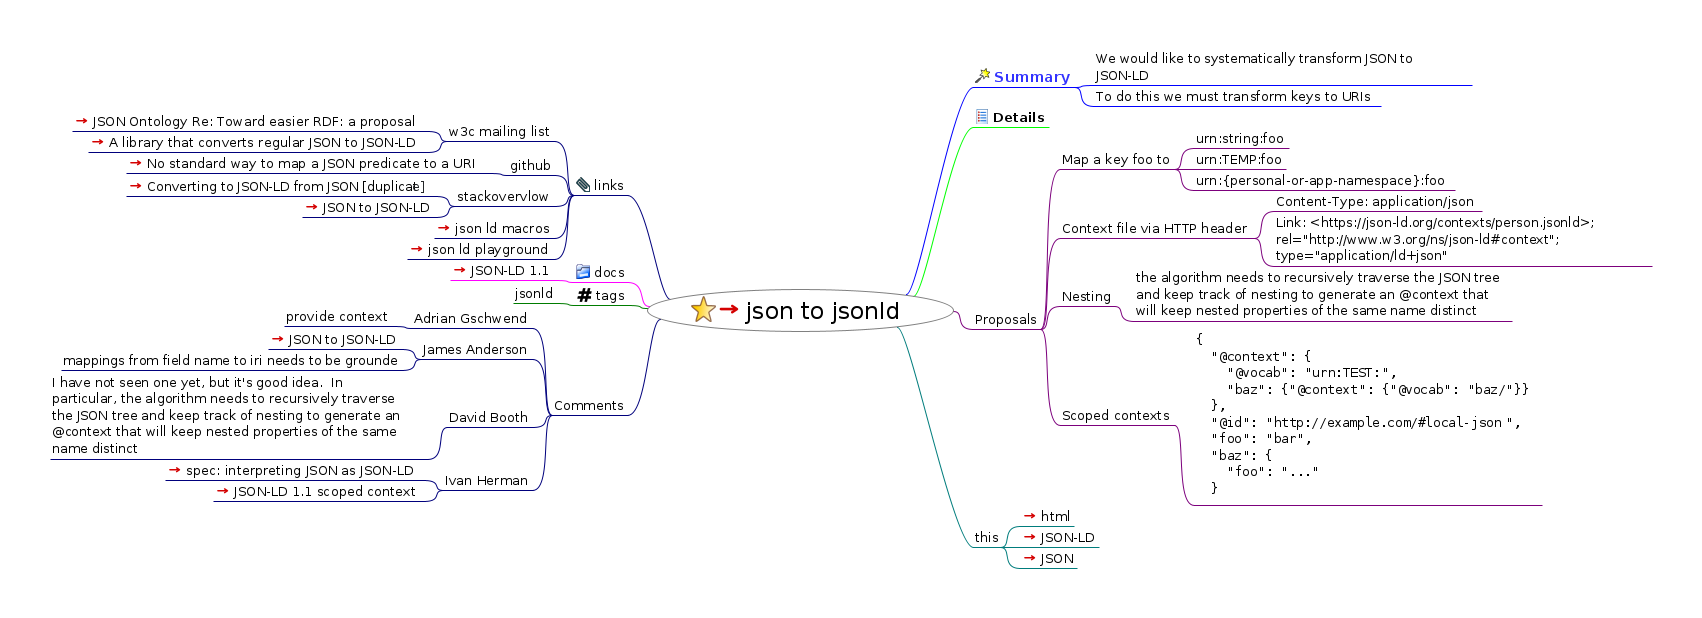
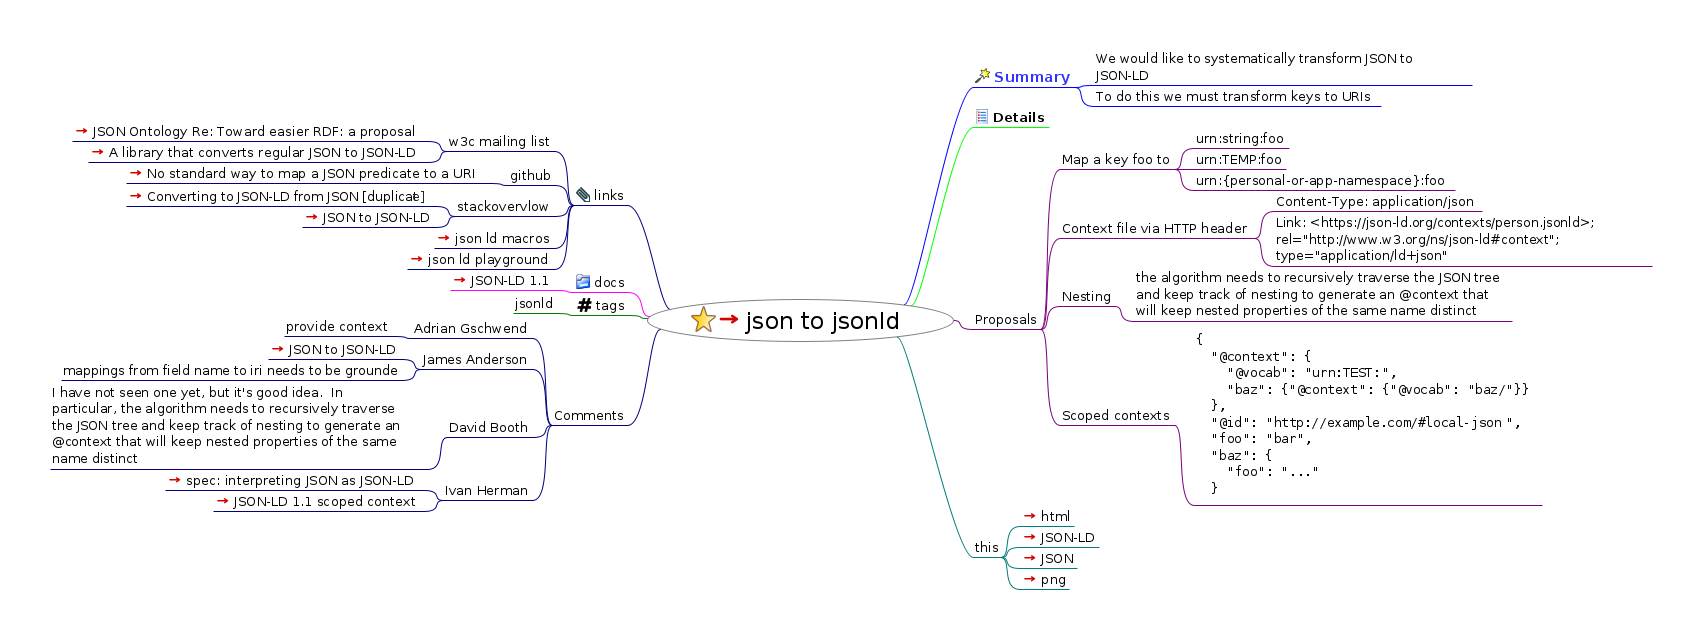
add png

diff --git a/2020/04/12/json-to-jsonld.html b/2020/04/12/json-to-jsonld.html
@@ -1,5 +1,5 @@
 <?xml version="1.0" encoding="UTF-8"?><!DOCTYPE html PUBLIC "-//W3C//DTD XHTML 1.1//EN" "http://www.w3.org/TR/xhtml11/DTD/xhtml11.dtd">
-<html xmlns="http://www.w3.org/1999/xhtml"><meta http-equiv="Content-Type" content="text/html; charset=UTF-8" /><!--This file has been created with freeplane2html.xsl--><head><title>json to jsonld</title><link rel="stylesheet" href="json-to-jsonld.html_files/freeplane2html.css" type="text/css" /><meta name="generator" content="Freeplane-XSL Stylesheet (see: http://freeplane-xsl.dev.slash-me.net/ for details)" /><script type="text/javascript" src="json-to-jsonld.html_files/freeplane2html.js"> 
+<html xmlns="http://www.w3.org/1999/xhtml"><meta http-equiv="Content-Type" content="text/html; charset=UTF-8" /><!--This file has been created with processhtml.sh--><head><title>json to jsonld</title><link rel="stylesheet" href="json-to-jsonld.html_files/freeplane2html.css" type="text/css" /><meta name="generator" content="Freeplane-XSL Stylesheet (see: http://freeplane-xsl.dev.slash-me.net/ for details)" /><script type="text/javascript" src="json-to-jsonld.html_files/freeplane2html.js"> 
 	</script><script type="text/javascript"><!--
           
                function toggle(id)
@@ -23,7 +23,7 @@
                    };
                };
           
-          --></script></head><body><h1>json to jsonld</h1><div style="width:96%;  padding:2%;  margin-bottom:10px;  border: 0px;  text-align:center;  vertical-align:center;"><img src="json-to-jsonld.html_files/image.png" style="margin-bottom:10px; &#9;border: 0px; &#9;text-align:center; &#9;vertical-align:center;" alt="Imagemap" usemap="#fm_imagemap" /></div><map name="fm_imagemap" id="fm_imagemap"><area shape="rect" href="#FMID_1831615648FM" alt="json to jsonld" title="json to jsonld" coords="647,289,954,332" />
+          --></script></head><body><h1>json to jsonld</h1><div style="width:96%;  padding:2%;  margin-bottom:10px;  border: 0px;  text-align:center;  vertical-align:center;"><img src="json-to-jsonld.html_files/image.png" style="margin-bottom:10px; &#9;border: 0px; &#9;text-align:center; &#9;vertical-align:center;" alt="Imagemap" usemap="#fm_imagemap" /></div><map name="fm_imagemap" id="fm_imagemap"><area shape="rect" href="index.html" alt="json to jsonld" title="json to jsonld" coords="647,299,954,342" />
 <area shape="rect" href="#FMID_1226961462FM" alt="Summary" title="Summary" coords="973,68,1075,87" />
 <area shape="rect" href="#FMID_1086973807FM" alt="We would like to systematically transfor ..." title="We would like to systematically transfor ..." coords="1094,50,1472,85" />
 <area shape="rect" href="#FMID_1111058289FM" alt="To do this we must transform keys to URI ..." title="To do this we must transform keys to URI ..." coords="1094,88,1381,106" />
@@ -40,39 +40,40 @@
 <area shape="rect" href="#FMID_1691568259FM" alt="the algorithm needs to recursively trave ..." title="the algorithm needs to recursively trave ..." coords="1134,269,1512,321" />
 <area shape="rect" href="#FMID_639646569FM" alt="Scoped contexts" title="Scoped contexts" coords="1060,407,1175,425" />
 <area shape="rect" href="#FMID_1192561099FM" alt="{ &quot;@context&quot;: { &quot;@vocab&quot;: &quot;urn:TEST:&quot;, &quot; ..." title="{ &quot;@context&quot;: { &quot;@vocab&quot;: &quot;urn:TEST:&quot;, &quot; ..." coords="1194,324,1542,505" />
-<area shape="rect" href="#FMID_1092542481FM" alt="this" title="this" coords="973,529,1001,547" />
-<area shape="rect" href="#FMID_428900558FM" alt="html" title="html" coords="1020,508,1074,526" />
-<area shape="rect" href="#FMID_1787735517FM" alt="JSON-LD" title="JSON-LD" coords="1020,529,1099,547" />
-<area shape="rect" href="#FMID_1736431665FM" alt="JSON" title="JSON" coords="1020,550,1077,568" />
-<area shape="rect" href="#FMID_808607355FM" alt="links" title="links" coords="574,177,628,195" />
-<area shape="rect" href="#FMID_918122248FM" alt="w3c mailing list" title="w3c mailing list" coords="447,123,555,141" />
-<area shape="rect" href="#FMID_1976596821FM" alt="JSON Ontology Re: Toward easier RDF: a p ..." title="JSON Ontology Re: Toward easier RDF: a p ..." coords="72,113,428,131" />
-<area shape="rect" href="#FMID_1449545746FM" alt="A library that converts regular JSON to  ..." title="A library that converts regular JSON to  ..." coords="88,134,428,152" />
-<area shape="rect" href="#FMID_1747052948FM" alt="github" title="github" coords="508,157,555,175" />
-<area shape="rect" href="#FMID_1011609031FM" alt="No standard way to map a JSON predicate  ..." title="No standard way to map a JSON predicate  ..." coords="126,155,489,173" />
-<area shape="rect" href="#FMID_1444305482FM" alt="stackovervlow" title="stackovervlow" coords="455,188,555,206" />
-<area shape="rect" href="#FMID_1392203866FM" alt="Converting to JSON-LD from JSON [duplica ..." title="Converting to JSON-LD from JSON [duplica ..." coords="126,178,436,196" />
-<area shape="rect" href="#FMID_1701504836FM" alt="JSON to JSON-LD" title="JSON to JSON-LD" coords="302,199,436,217" />
-<area shape="rect" href="#FMID_470698109FM" alt="json ld macros" title="json ld macros" coords="434,220,555,238" />
-<area shape="rect" href="#FMID_415558595FM" alt="json ld playground" title="json ld playground" coords="407,241,555,259" />
-<area shape="rect" href="#FMID_1100215200FM" alt="docs" title="docs" coords="574,264,628,282" />
-<area shape="rect" href="#FMID_1264027332FM" alt="JSON-LD 1.1" title="JSON-LD 1.1" coords="450,262,555,280" />
-<area shape="rect" href="#FMID_466759422FM" alt="tags" title="tags" coords="575,287,628,305" />
-<area shape="rect" href="#FMID_1819539538FM" alt="jsonld" title="jsonld" coords="513,285,556,303" />
-<area shape="rect" href="#FMID_1203332323FM" alt="Comments" title="Comments" coords="552,397,628,415" />
-<area shape="rect" href="#FMID_348210779FM" alt="Adrian Gschwend" title="Adrian Gschwend" coords="412,310,533,328" />
-<area shape="rect" href="#FMID_144966324FM" alt="provide context" title="provide context" coords="284,308,393,326" />
-<area shape="rect" href="#FMID_1765687416FM" alt="James Anderson" title="James Anderson" coords="421,341,533,359" />
-<area shape="rect" href="#FMID_766501768FM" alt="JSON to JSON-LD" title="JSON to JSON-LD" coords="268,331,402,349" />
-<area shape="rect" href="#FMID_1778237430FM" alt="mappings from field name to iri needs to ..." title="mappings from field name to iri needs to ..." coords="61,352,402,370" />
-<area shape="rect" href="#FMID_1984802718FM" alt="David Booth" title="David Booth" coords="447,409,533,427" />
-<area shape="rect" href="#FMID_847805870FM" alt="I have not seen one yet, but it's good i ..." title="I have not seen one yet, but it's good i ..." coords="50,373,428,459" />
-<area shape="rect" href="#FMID_1744736052FM" alt="Ivan Herman" title="Ivan Herman" coords="443,472,533,490" />
-<area shape="rect" href="#FMID_1977856301FM" alt="spec: interpreting JSON as JSON-LD" title="spec: interpreting JSON as JSON-LD" coords="165,462,424,480" />
-<area shape="rect" href="#FMID_1496037961FM" alt="JSON-LD 1.1 scoped context" title="JSON-LD 1.1 scoped context" coords="213,483,424,501" />
+<area shape="rect" href="#FMID_1092542481FM" alt="this" title="this" coords="973,539,1001,557" />
+<area shape="rect" href="https://melvincarvalho.com/issues/2020/04/12/json-to-jsonld.html" alt="html" title="html" coords="1020,508,1074,526" />
+<area shape="rect" href="https://melvincarvalho.com/issues/2020/04/12/json-to-jsonld.jsonld" alt="JSON-LD" title="JSON-LD" coords="1020,529,1099,547" />
+<area shape="rect" href="https://melvincarvalho.com/issues/2020/04/12/json-to-jsonld.json" alt="JSON" title="JSON" coords="1020,550,1077,568" />
+<area shape="rect" href="https://melvincarvalho.com/issues/2020/04/12/json-to-jsonld.html_files/image.png" alt="png" title="png" coords="1020,571,1069,589" />
+<area shape="rect" href="#FMID_808607355FM" alt="links" title="links" coords="574,187,628,205" />
+<area shape="rect" href="#FMID_918122248FM" alt="w3c mailing list" title="w3c mailing list" coords="447,133,555,151" />
+<area shape="rect" href="https://lists.w3.org/Archives/Public/semantic-web/2018Nov/0171.html" alt="JSON Ontology Re: Toward easier RDF: a p ..." title="JSON Ontology Re: Toward easier RDF: a p ..." coords="72,123,428,141" />
+<area shape="rect" href="https://lists.w3.org/Archives/Public/public-linked-json/2020Apr/0003.html" alt="A library that converts regular JSON to  ..." title="A library that converts regular JSON to  ..." coords="88,144,428,162" />
+<area shape="rect" href="#FMID_1747052948FM" alt="github" title="github" coords="508,167,555,185" />
+<area shape="rect" href="https://github.com/w3c/EasierRDF/issues/29" alt="No standard way to map a JSON predicate  ..." title="No standard way to map a JSON predicate  ..." coords="126,165,489,183" />
+<area shape="rect" href="#FMID_1444305482FM" alt="stackovervlow" title="stackovervlow" coords="455,198,555,216" />
+<area shape="rect" href="https://stackoverflow.com/questions/28077742/converting-to-json-ld-from-json" alt="Converting to JSON-LD from JSON [duplica ..." title="Converting to JSON-LD from JSON [duplica ..." coords="126,188,436,206" />
+<area shape="rect" href="https://stackoverflow.com/questions/27564369/json-to-json-ld" alt="JSON to JSON-LD" title="JSON to JSON-LD" coords="302,209,436,227" />
+<area shape="rect" href="https://github.com/antoniogarrote/json-ld-macros" alt="json ld macros" title="json ld macros" coords="434,230,555,248" />
+<area shape="rect" href="http://json-ld.org/playground/" alt="json ld playground" title="json ld playground" coords="407,251,555,269" />
+<area shape="rect" href="#FMID_1100215200FM" alt="docs" title="docs" coords="574,274,628,292" />
+<area shape="rect" href="https://json-ld.org/spec/latest/json-ld/" alt="JSON-LD 1.1" title="JSON-LD 1.1" coords="450,272,555,290" />
+<area shape="rect" href="#FMID_466759422FM" alt="tags" title="tags" coords="575,297,628,315" />
+<area shape="rect" href="#FMID_1819539538FM" alt="jsonld" title="jsonld" coords="513,295,556,313" />
+<area shape="rect" href="#FMID_1203332323FM" alt="Comments" title="Comments" coords="552,407,628,425" />
+<area shape="rect" href="#FMID_348210779FM" alt="Adrian Gschwend" title="Adrian Gschwend" coords="412,320,533,338" />
+<area shape="rect" href="#FMID_144966324FM" alt="provide context" title="provide context" coords="284,318,393,336" />
+<area shape="rect" href="#FMID_1765687416FM" alt="James Anderson" title="James Anderson" coords="421,351,533,369" />
+<area shape="rect" href="https://stackoverflow.com/questions/27564369/json-to-json-ld" alt="JSON to JSON-LD" title="JSON to JSON-LD" coords="268,341,402,359" />
+<area shape="rect" href="#FMID_1778237430FM" alt="mappings from field name to iri needs to ..." title="mappings from field name to iri needs to ..." coords="61,362,402,380" />
+<area shape="rect" href="#FMID_1984802718FM" alt="David Booth" title="David Booth" coords="447,419,533,437" />
+<area shape="rect" href="#FMID_847805870FM" alt="I have not seen one yet, but it's good i ..." title="I have not seen one yet, but it's good i ..." coords="50,383,428,469" />
+<area shape="rect" href="#FMID_1744736052FM" alt="Ivan Herman" title="Ivan Herman" coords="443,482,533,500" />
+<area shape="rect" href="https://www.w3.org/TR/json-ld11/#interpreting-json-as-json-ld" alt="spec: interpreting JSON as JSON-LD" title="spec: interpreting JSON as JSON-LD" coords="165,472,424,490" />
+<area shape="rect" href="https://github.com/w3c/EasierRDF/issues/29#issuecomment-606147345" alt="JSON-LD 1.1 scoped context" title="JSON-LD 1.1 scoped context" coords="213,493,424,511" />
 </map>
 
-<div class="node"><img src="json-to-jsonld.html_files/hide.png" class="hideshow" alt="hide" onClick="toggle(&quot;N65543&quot;)" id="imgN65543" /><img src="json-to-jsonld.html_files/icons/bookmark.png" alt="bookmark" /> <a id="FMID_1831615648FM" /><div class="nodecontent" style="color:#000000;font-size:150%;"><a href="index.mm">json to jsonld</a> <a href="index.mm"><img src="json-to-jsonld.html_files/ilink.png" alt="User Link" style="border-width:0" /></a></div><div class="content" id="N65543"><div class="node"><img src="json-to-jsonld.html_files/hide.png" class="hideshow" alt="hide" onClick="toggle(&quot;N66445&quot;)" id="imgN66445" /><img src="json-to-jsonld.html_files/icons/wizard.png" alt="wizard" /> <a id="FMID_1226961462FM" /><div class="nodecontent" style="color:#3333ff;font-size:92%;font-weight:bold;">Summary</div><div class="content" id="N66445"><div class="node"><img src="json-to-jsonld.html_files/leaf.png" class="hideshow" alt="leaf" /><a id="FMID_1086973807FM" /><div class="nodecontent" style="color:#000000;font-size:83%;">We would like to systematically transform JSON to JSON-LD</div></div><div class="node"><img src="json-to-jsonld.html_files/leaf.png" class="hideshow" alt="leaf" /><a id="FMID_1111058289FM" /><div class="nodecontent" style="color:#000000;font-size:83%;">To do this we must transform keys to URIs</div></div></div></div><div class="node"><img src="json-to-jsonld.html_files/leaf.png" class="hideshow" alt="leaf" /><img src="json-to-jsonld.html_files/icons/list.png" alt="list" /> <a id="FMID_120250381FM" /><div class="nodecontent" style="color:#000000;font-size:83%;font-weight:bold;">Details</div></div><div class="node"><img src="json-to-jsonld.html_files/hide.png" class="hideshow" alt="hide" onClick="toggle(&quot;N66601&quot;)" id="imgN66601" /><a id="FMID_1685152554FM" /><div class="nodecontent" style="color:#000000;font-size:83%;">Proposals</div><div class="content" id="N66601"><div class="node"><img src="json-to-jsonld.html_files/hide.png" class="hideshow" alt="hide" onClick="toggle(&quot;N66637&quot;)" id="imgN66637" /><a id="FMID_913816081FM" /><div class="nodecontent" style="color:#000000;font-size:83%;">Map a key foo to</div><div class="content" id="N66637"><div class="node"><img src="json-to-jsonld.html_files/leaf.png" class="hideshow" alt="leaf" /><a id="FMID_227726758FM" /><div class="nodecontent" style="color:#000000;font-size:83%;">urn:string:foo</div></div><div class="node"><img src="json-to-jsonld.html_files/leaf.png" class="hideshow" alt="leaf" /><a id="FMID_51017504FM" /><div class="nodecontent" style="color:#000000;font-size:83%;">urn:TEMP:foo</div></div><div class="node"><img src="json-to-jsonld.html_files/leaf.png" class="hideshow" alt="leaf" /><a id="FMID_1038121197FM" /><div class="nodecontent" style="color:#000000;font-size:83%;">urn:{personal-or-app-namespace}:foo</div></div></div></div><div class="node"><img src="json-to-jsonld.html_files/hide.png" class="hideshow" alt="hide" onClick="toggle(&quot;N66781&quot;)" id="imgN66781" /><a id="FMID_658809045FM" /><div class="nodecontent" style="color:#000000;font-size:83%;">Context file via HTTP header</div><div class="content" id="N66781"><div class="node"><img src="json-to-jsonld.html_files/leaf.png" class="hideshow" alt="leaf" /><a id="FMID_1231816294FM" /><div class="nodecontent" style="color:#000000;font-size:83%;">Content-Type: application/json</div></div><div class="node"><img src="json-to-jsonld.html_files/leaf.png" class="hideshow" alt="leaf" /><a id="FMID_1174063405FM" /><div class="nodecontent" style="color:#000000;font-size:83%;">Link: &lt;https://json-ld.org/contexts/person.jsonld&gt;; rel="http://www.w3.org/ns/json-ld#context"; type="application/ld+json"</div></div></div></div><div class="node"><img src="json-to-jsonld.html_files/hide.png" class="hideshow" alt="hide" onClick="toggle(&quot;N66889&quot;)" id="imgN66889" /><a id="FMID_474092614FM" /><div class="nodecontent" style="color:#000000;font-size:83%;">Nesting</div><div class="content" id="N66889"><div class="node"><img src="json-to-jsonld.html_files/leaf.png" class="hideshow" alt="leaf" /><a id="FMID_1691568259FM" /><div class="nodecontent" style="color:#000000;font-size:83%;">
+<div class="node"><img src="json-to-jsonld.html_files/hide.png" class="hideshow" alt="hide" onClick="toggle(&quot;N65543&quot;)" id="imgN65543" /><img src="json-to-jsonld.html_files/icons/bookmark.svg" alt="bookmark" /> <a id="FMID_1831615648FM" /><div class="nodecontent" style="color:#000000;font-size:150%;"><a href="index.html">json to jsonld</a> <a href="index.html"><img src="json-to-jsonld.html_files/ilink.png" alt="User Link" style="border-width:0" /></a></div><div class="content" id="N65543"><div class="node"><img src="json-to-jsonld.html_files/hide.png" class="hideshow" alt="hide" onClick="toggle(&quot;N66445&quot;)" id="imgN66445" /><img src="json-to-jsonld.html_files/icons/wizard.svg" alt="wizard" /> <a id="FMID_1226961462FM" /><div class="nodecontent" style="color:#3333ff;font-size:92%;font-weight:bold;">Summary</div><div class="content" id="N66445"><div class="node"><img src="json-to-jsonld.html_files/leaf.png" class="hideshow" alt="leaf" /><a id="FMID_1086973807FM" /><div class="nodecontent" style="color:#000000;font-size:83%;">We would like to systematically transform JSON to JSON-LD</div></div><div class="node"><img src="json-to-jsonld.html_files/leaf.png" class="hideshow" alt="leaf" /><a id="FMID_1111058289FM" /><div class="nodecontent" style="color:#000000;font-size:83%;">To do this we must transform keys to URIs</div></div></div></div><div class="node"><img src="json-to-jsonld.html_files/leaf.png" class="hideshow" alt="leaf" /><img src="json-to-jsonld.html_files/icons/list.svg" alt="list" /> <a id="FMID_120250381FM" /><div class="nodecontent" style="color:#000000;font-size:83%;font-weight:bold;">Details</div></div><div class="node"><img src="json-to-jsonld.html_files/hide.png" class="hideshow" alt="hide" onClick="toggle(&quot;N66601&quot;)" id="imgN66601" /><a id="FMID_1685152554FM" /><div class="nodecontent" style="color:#000000;font-size:83%;">Proposals</div><div class="content" id="N66601"><div class="node"><img src="json-to-jsonld.html_files/hide.png" class="hideshow" alt="hide" onClick="toggle(&quot;N66637&quot;)" id="imgN66637" /><a id="FMID_913816081FM" /><div class="nodecontent" style="color:#000000;font-size:83%;">Map a key foo to</div><div class="content" id="N66637"><div class="node"><img src="json-to-jsonld.html_files/leaf.png" class="hideshow" alt="leaf" /><a id="FMID_227726758FM" /><div class="nodecontent" style="color:#000000;font-size:83%;">urn:string:foo</div></div><div class="node"><img src="json-to-jsonld.html_files/leaf.png" class="hideshow" alt="leaf" /><a id="FMID_51017504FM" /><div class="nodecontent" style="color:#000000;font-size:83%;">urn:TEMP:foo</div></div><div class="node"><img src="json-to-jsonld.html_files/leaf.png" class="hideshow" alt="leaf" /><a id="FMID_1038121197FM" /><div class="nodecontent" style="color:#000000;font-size:83%;">urn:{personal-or-app-namespace}:foo</div></div></div></div><div class="node"><img src="json-to-jsonld.html_files/hide.png" class="hideshow" alt="hide" onClick="toggle(&quot;N66781&quot;)" id="imgN66781" /><a id="FMID_658809045FM" /><div class="nodecontent" style="color:#000000;font-size:83%;">Context file via HTTP header</div><div class="content" id="N66781"><div class="node"><img src="json-to-jsonld.html_files/leaf.png" class="hideshow" alt="leaf" /><a id="FMID_1231816294FM" /><div class="nodecontent" style="color:#000000;font-size:83%;">Content-Type: application/json</div></div><div class="node"><img src="json-to-jsonld.html_files/leaf.png" class="hideshow" alt="leaf" /><a id="FMID_1174063405FM" /><div class="nodecontent" style="color:#000000;font-size:83%;">Link: &lt;https://json-ld.org/contexts/person.jsonld&gt;; rel="http://www.w3.org/ns/json-ld#context"; type="application/ld+json"</div></div></div></div><div class="node"><img src="json-to-jsonld.html_files/hide.png" class="hideshow" alt="hide" onClick="toggle(&quot;N66889&quot;)" id="imgN66889" /><a id="FMID_474092614FM" /><div class="nodecontent" style="color:#000000;font-size:83%;">Nesting</div><div class="content" id="N66889"><div class="node"><img src="json-to-jsonld.html_files/leaf.png" class="hideshow" alt="leaf" /><a id="FMID_1691568259FM" /><div class="nodecontent" style="color:#000000;font-size:83%;">
     <p>
       the algorithm needs to recursively traverse the JSON tree and keep track of nesting to generate an @context that will keep nested properties of the same name distinct
     </p>
@@ -87,11 +88,11 @@
   <span class="pl-pds">"</span><span class="pl-s">baz</span><span class="pl-pds">"</span>: {
     <span class="pl-pds">"</span><span class="pl-s">foo</span><span class="pl-pds">"</span>: <span class="pl-pds">"</span><span class="pl-s">...</span><span class="pl-pds">"</span>
   }</pre>
-  </div></div></div></div></div></div><div class="node"><img src="json-to-jsonld.html_files/hide.png" class="hideshow" alt="hide" onClick="toggle(&quot;N67206&quot;)" id="imgN67206" /><a id="FMID_1092542481FM" /><div class="nodecontent" style="color:#000000;font-size:83%;">this</div><div class="content" id="N67206"><div class="node"><img src="json-to-jsonld.html_files/leaf.png" class="hideshow" alt="leaf" /><a id="FMID_428900558FM" /><div class="nodecontent" style="color:#000000;font-size:83%;"><a href="https://melvincarvalho.com/issues/2020/04/12/json-to-jsonld.html">html</a> <a href="https://melvincarvalho.com/issues/2020/04/12/json-to-jsonld.html"><img src="json-to-jsonld.html_files/ilink.png" alt="User Link" style="border-width:0" /></a></div></div><div class="node"><img src="json-to-jsonld.html_files/leaf.png" class="hideshow" alt="leaf" /><a id="FMID_1787735517FM" /><div class="nodecontent" style="color:#000000;font-size:83%;"><a href="https://melvincarvalho.com/issues/2020/04/12/json-to-jsonld.jsonld">JSON-LD</a> <a href="https://melvincarvalho.com/issues/2020/04/12/json-to-jsonld.jsonld"><img src="json-to-jsonld.html_files/ilink.png" alt="User Link" style="border-width:0" /></a></div></div><div class="node"><img src="json-to-jsonld.html_files/leaf.png" class="hideshow" alt="leaf" /><a id="FMID_1736431665FM" /><div class="nodecontent" style="color:#000000;font-size:83%;"><a href="https://melvincarvalho.com/issues/2020/04/12/json-to-jsonld.json">JSON</a> <a href="https://melvincarvalho.com/issues/2020/04/12/json-to-jsonld.json"><img src="json-to-jsonld.html_files/ilink.png" alt="User Link" style="border-width:0" /></a></div></div></div></div><div class="node"><img src="json-to-jsonld.html_files/hide.png" class="hideshow" alt="hide" onClick="toggle(&quot;N67354&quot;)" id="imgN67354" /><img src="json-to-jsonld.html_files/icons/attach.png" alt="attach" /> <a id="FMID_808607355FM" /><div class="nodecontent" style="color:#000000;font-size:83%;">links</div><div class="content" id="N67354"><div class="node"><img src="json-to-jsonld.html_files/hide.png" class="hideshow" alt="hide" onClick="toggle(&quot;N67395&quot;)" id="imgN67395" /><a id="FMID_918122248FM" /><div class="nodecontent" style="color:#000000;font-size:83%;">w3c mailing list</div><div class="content" id="N67395"><div class="node"><img src="json-to-jsonld.html_files/leaf.png" class="hideshow" alt="leaf" /><a id="FMID_1976596821FM" /><div class="nodecontent" style="color:#000000;font-size:83%;"><a href="https://lists.w3.org/Archives/Public/semantic-web/2018Nov/0171.html">JSON Ontology Re: Toward easier RDF: a proposal</a> <a href="https://lists.w3.org/Archives/Public/semantic-web/2018Nov/0171.html"><img src="json-to-jsonld.html_files/ilink.png" alt="User Link" style="border-width:0" /></a></div></div><div class="node"><img src="json-to-jsonld.html_files/leaf.png" class="hideshow" alt="leaf" /><a id="FMID_1449545746FM" /><div class="nodecontent" style="color:#000000;font-size:83%;"><a href="https://lists.w3.org/Archives/Public/public-linked-json/2020Apr/0003.html">A library that converts regular JSON to JSON-LD</a> <a href="https://lists.w3.org/Archives/Public/public-linked-json/2020Apr/0003.html"><img src="json-to-jsonld.html_files/ilink.png" alt="User Link" style="border-width:0" /></a></div></div></div></div><div class="node"><img src="json-to-jsonld.html_files/hide.png" class="hideshow" alt="hide" onClick="toggle(&quot;N67505&quot;)" id="imgN67505" /><a id="FMID_1747052948FM" /><div class="nodecontent" style="color:#000000;font-size:83%;">github</div><div class="content" id="N67505"><div class="node"><img src="json-to-jsonld.html_files/leaf.png" class="hideshow" alt="leaf" /><a id="FMID_1011609031FM" /><div class="nodecontent" style="color:#000000;font-size:83%;"><a href="https://github.com/w3c/EasierRDF/issues/29">No standard way to map a JSON predicate to a URI</a> <a href="https://github.com/w3c/EasierRDF/issues/29"><img src="json-to-jsonld.html_files/ilink.png" alt="User Link" style="border-width:0" /></a></div></div></div></div><div class="node"><img src="json-to-jsonld.html_files/hide.png" class="hideshow" alt="hide" onClick="toggle(&quot;N67578&quot;)" id="imgN67578" /><a id="FMID_1444305482FM" /><div class="nodecontent" style="color:#000000;font-size:83%;">stackovervlow</div><div class="content" id="N67578"><div class="node"><img src="json-to-jsonld.html_files/leaf.png" class="hideshow" alt="leaf" /><a id="FMID_1392203866FM" /><div class="nodecontent" style="color:#000000;font-size:83%;"><a href="https://stackoverflow.com/questions/28077742/converting-to-json-ld-from-json">
+  </div></div></div></div></div></div><div class="node"><img src="json-to-jsonld.html_files/hide.png" class="hideshow" alt="hide" onClick="toggle(&quot;N67206&quot;)" id="imgN67206" /><a id="FMID_1092542481FM" /><div class="nodecontent" style="color:#000000;font-size:83%;">this</div><div class="content" id="N67206"><div class="node"><img src="json-to-jsonld.html_files/leaf.png" class="hideshow" alt="leaf" /><a id="FMID_428900558FM" /><div class="nodecontent" style="color:#000000;font-size:83%;"><a href="https://melvincarvalho.com/issues/2020/04/12/json-to-jsonld.html">html</a> <a href="https://melvincarvalho.com/issues/2020/04/12/json-to-jsonld.html"><img src="json-to-jsonld.html_files/ilink.png" alt="User Link" style="border-width:0" /></a></div></div><div class="node"><img src="json-to-jsonld.html_files/leaf.png" class="hideshow" alt="leaf" /><a id="FMID_1787735517FM" /><div class="nodecontent" style="color:#000000;font-size:83%;"><a href="https://melvincarvalho.com/issues/2020/04/12/json-to-jsonld.jsonld">JSON-LD</a> <a href="https://melvincarvalho.com/issues/2020/04/12/json-to-jsonld.jsonld"><img src="json-to-jsonld.html_files/ilink.png" alt="User Link" style="border-width:0" /></a></div></div><div class="node"><img src="json-to-jsonld.html_files/leaf.png" class="hideshow" alt="leaf" /><a id="FMID_1736431665FM" /><div class="nodecontent" style="color:#000000;font-size:83%;"><a href="https://melvincarvalho.com/issues/2020/04/12/json-to-jsonld.json">JSON</a> <a href="https://melvincarvalho.com/issues/2020/04/12/json-to-jsonld.json"><img src="json-to-jsonld.html_files/ilink.png" alt="User Link" style="border-width:0" /></a></div></div><div class="node"><img src="json-to-jsonld.html_files/leaf.png" class="hideshow" alt="leaf" /><a id="FMID_1934992190FM" /><div class="nodecontent" style="color:#000000;font-size:83%;"><a href="https://melvincarvalho.com/issues/2020/04/12/json-to-jsonld.html_files/image.png">png</a> <a href="https://melvincarvalho.com/issues/2020/04/12/json-to-jsonld.html_files/image.png"><img src="json-to-jsonld.html_files/ilink.png" alt="User Link" style="border-width:0" /></a></div></div></div></div><div class="node"><img src="json-to-jsonld.html_files/hide.png" class="hideshow" alt="hide" onClick="toggle(&quot;N67391&quot;)" id="imgN67391" /><img src="json-to-jsonld.html_files/icons/attach.svg" alt="attach" /> <a id="FMID_808607355FM" /><div class="nodecontent" style="color:#000000;font-size:83%;">links</div><div class="content" id="N67391"><div class="node"><img src="json-to-jsonld.html_files/hide.png" class="hideshow" alt="hide" onClick="toggle(&quot;N67432&quot;)" id="imgN67432" /><a id="FMID_918122248FM" /><div class="nodecontent" style="color:#000000;font-size:83%;">w3c mailing list</div><div class="content" id="N67432"><div class="node"><img src="json-to-jsonld.html_files/leaf.png" class="hideshow" alt="leaf" /><a id="FMID_1976596821FM" /><div class="nodecontent" style="color:#000000;font-size:83%;"><a href="https://lists.w3.org/Archives/Public/semantic-web/2018Nov/0171.html">JSON Ontology Re: Toward easier RDF: a proposal</a> <a href="https://lists.w3.org/Archives/Public/semantic-web/2018Nov/0171.html"><img src="json-to-jsonld.html_files/ilink.png" alt="User Link" style="border-width:0" /></a></div></div><div class="node"><img src="json-to-jsonld.html_files/leaf.png" class="hideshow" alt="leaf" /><a id="FMID_1449545746FM" /><div class="nodecontent" style="color:#000000;font-size:83%;"><a href="https://lists.w3.org/Archives/Public/public-linked-json/2020Apr/0003.html">A library that converts regular JSON to JSON-LD</a> <a href="https://lists.w3.org/Archives/Public/public-linked-json/2020Apr/0003.html"><img src="json-to-jsonld.html_files/ilink.png" alt="User Link" style="border-width:0" /></a></div></div></div></div><div class="node"><img src="json-to-jsonld.html_files/hide.png" class="hideshow" alt="hide" onClick="toggle(&quot;N67542&quot;)" id="imgN67542" /><a id="FMID_1747052948FM" /><div class="nodecontent" style="color:#000000;font-size:83%;">github</div><div class="content" id="N67542"><div class="node"><img src="json-to-jsonld.html_files/leaf.png" class="hideshow" alt="leaf" /><a id="FMID_1011609031FM" /><div class="nodecontent" style="color:#000000;font-size:83%;"><a href="https://github.com/w3c/EasierRDF/issues/29">No standard way to map a JSON predicate to a URI</a> <a href="https://github.com/w3c/EasierRDF/issues/29"><img src="json-to-jsonld.html_files/ilink.png" alt="User Link" style="border-width:0" /></a></div></div></div></div><div class="node"><img src="json-to-jsonld.html_files/hide.png" class="hideshow" alt="hide" onClick="toggle(&quot;N67615&quot;)" id="imgN67615" /><a id="FMID_1444305482FM" /><div class="nodecontent" style="color:#000000;font-size:83%;">stackovervlow</div><div class="content" id="N67615"><div class="node"><img src="json-to-jsonld.html_files/leaf.png" class="hideshow" alt="leaf" /><a id="FMID_1392203866FM" /><div class="nodecontent" style="color:#000000;font-size:83%;"><a href="https://stackoverflow.com/questions/28077742/converting-to-json-ld-from-json">
     <h1 http-equiv="content-type" content="text/html; charset=utf-8" itemprop="name" class="grid--cell fs-headline1 fl1 ow-break-word mb8" style="margin-top: 0px; margin-right: 0px; margin-bottom: 0; margin-left: 0px; padding-top: 0px; padding-right: 0px; padding-bottom: 0px; padding-left: 0px; border-top-style: none; border-top-width: 0px; border-right-style: none; border-right-width: 0px; border-bottom-style: none; border-bottom-width: 0px; border-left-style: none; border-left-width: 0px; font-style: normal; font-weight: normal; line-height: 1.3; font-family: Arial, Helvetica Neue, Helvetica, sans-serif; font-size: 2.07692rem !important; vertical-align: baseline; color: rgb(36, 39, 41); letter-spacing: normal; text-align: left; text-indent: 0px; text-transform: none; white-space: normal; word-spacing: 0px; background-color: rgb(255, 255, 255)">
       <a href="https://stackoverflow.com/questions/28077742/converting-to-json-ld-from-json" class="question-hyperlink" style="margin-top: 0px; margin-right: 0px; margin-bottom: 0px; margin-left: 0px; padding-top: 0px; padding-right: 0px; padding-bottom: 0px; padding-left: 0px; border-top-style: none; border-top-width: 0px; border-right-style: none; border-right-width: 0px; border-bottom-style: none; border-bottom-width: 0px; border-left-style: none; border-left-width: 0px; font-style: inherit; font-variant: inherit; font-weight: normal; line-height: 1.35; font-family: Arial, Helvetica Neue, Helvetica, sans-serif; font-size: 2.07692rem; vertical-align: baseline; text-decoration: none; color: black"><font face="Arial, Helvetica Neue, Helvetica, sans-serif" size="2.07692rem" color="black">Converting to JSON-LD from JSON [duplicat</font></a>e]
     </h1>
-  </a> <a href="https://stackoverflow.com/questions/28077742/converting-to-json-ld-from-json"><img src="json-to-jsonld.html_files/ilink.png" alt="User Link" style="border-width:0" /></a></div></div><div class="node"><img src="json-to-jsonld.html_files/leaf.png" class="hideshow" alt="leaf" /><a id="FMID_1701504836FM" /><div class="nodecontent" style="color:#000000;font-size:83%;"><a href="https://stackoverflow.com/questions/27564369/json-to-json-ld">JSON to JSON-LD</a> <a href="https://stackoverflow.com/questions/27564369/json-to-json-ld"><img src="json-to-jsonld.html_files/ilink.png" alt="User Link" style="border-width:0" /></a></div></div></div></div><div class="node"><img src="json-to-jsonld.html_files/leaf.png" class="hideshow" alt="leaf" /><a id="FMID_470698109FM" /><div class="nodecontent" style="color:#000000;font-size:83%;"><a href="https://github.com/antoniogarrote/json-ld-macros">json ld macros</a> <a href="https://github.com/antoniogarrote/json-ld-macros"><img src="json-to-jsonld.html_files/ilink.png" alt="User Link" style="border-width:0" /></a></div></div><div class="node"><img src="json-to-jsonld.html_files/leaf.png" class="hideshow" alt="leaf" /><a id="FMID_415558595FM" /><div class="nodecontent" style="color:#000000;font-size:83%;"><a href="http://json-ld.org/playground/">json ld playground</a> <a href="http://json-ld.org/playground/"><img src="json-to-jsonld.html_files/ilink.png" alt="User Link" style="border-width:0" /></a></div></div></div></div><div class="node"><img src="json-to-jsonld.html_files/hide.png" class="hideshow" alt="hide" onClick="toggle(&quot;N67793&quot;)" id="imgN67793" /><img src="json-to-jsonld.html_files/icons/folder.png" alt="folder" /> <a id="FMID_1100215200FM" /><div class="nodecontent" style="color:#000000;font-size:83%;">docs</div><div class="content" id="N67793"><div class="node"><img src="json-to-jsonld.html_files/leaf.png" class="hideshow" alt="leaf" /><a id="FMID_1264027332FM" /><div class="nodecontent" style="color:#000000;font-size:83%;"><a href="https://json-ld.org/spec/latest/json-ld/">JSON-LD 1.1</a> <a href="https://json-ld.org/spec/latest/json-ld/"><img src="json-to-jsonld.html_files/ilink.png" alt="User Link" style="border-width:0" /></a></div></div></div></div><div class="node"><img src="json-to-jsonld.html_files/hide.png" class="hideshow" alt="hide" onClick="toggle(&quot;N67872&quot;)" id="imgN67872" /><img src="json-to-jsonld.html_files/icons/hashtag.png" alt="hashtag" /> <a id="FMID_466759422FM" /><div class="nodecontent" style="color:#000000;font-size:83%;">tags</div><div class="content" id="N67872"><div class="node"><img src="json-to-jsonld.html_files/leaf.png" class="hideshow" alt="leaf" /><a id="FMID_1819539538FM" /><div class="nodecontent" style="color:#000000;font-size:83%;">jsonld</div></div></div></div><div class="node"><img src="json-to-jsonld.html_files/hide.png" class="hideshow" alt="hide" onClick="toggle(&quot;N67950&quot;)" id="imgN67950" /><a id="FMID_1203332323FM" /><div class="nodecontent" style="color:#000000;font-size:83%;">Comments</div><div class="content" id="N67950"><div class="node"><img src="json-to-jsonld.html_files/hide.png" class="hideshow" alt="hide" onClick="toggle(&quot;N67986&quot;)" id="imgN67986" /><a id="FMID_348210779FM" /><div class="nodecontent" style="color:#000000;font-size:83%;">Adrian Gschwend</div><div class="content" id="N67986"><div class="node"><img src="json-to-jsonld.html_files/leaf.png" class="hideshow" alt="leaf" /><a id="FMID_144966324FM" /><div class="nodecontent" style="color:#000000;font-size:83%;">provide context</div></div></div></div><div class="node"><img src="json-to-jsonld.html_files/hide.png" class="hideshow" alt="hide" onClick="toggle(&quot;N68058&quot;)" id="imgN68058" /><a id="FMID_1765687416FM" /><div class="nodecontent" style="color:#000000;font-size:83%;">James Anderson</div><div class="content" id="N68058"><div class="node"><img src="json-to-jsonld.html_files/leaf.png" class="hideshow" alt="leaf" /><a id="FMID_766501768FM" /><div class="nodecontent" style="color:#000000;font-size:83%;"><a href="https://stackoverflow.com/questions/27564369/json-to-json-ld">JSON to JSON-LD</a> <a href="https://stackoverflow.com/questions/27564369/json-to-json-ld"><img src="json-to-jsonld.html_files/ilink.png" alt="User Link" style="border-width:0" /></a></div></div><div class="node"><img src="json-to-jsonld.html_files/leaf.png" class="hideshow" alt="leaf" /><a id="FMID_1778237430FM" /><div class="nodecontent" style="color:#000000;font-size:83%;">
+  </a> <a href="https://stackoverflow.com/questions/28077742/converting-to-json-ld-from-json"><img src="json-to-jsonld.html_files/ilink.png" alt="User Link" style="border-width:0" /></a></div></div><div class="node"><img src="json-to-jsonld.html_files/leaf.png" class="hideshow" alt="leaf" /><a id="FMID_1701504836FM" /><div class="nodecontent" style="color:#000000;font-size:83%;"><a href="https://stackoverflow.com/questions/27564369/json-to-json-ld">JSON to JSON-LD</a> <a href="https://stackoverflow.com/questions/27564369/json-to-json-ld"><img src="json-to-jsonld.html_files/ilink.png" alt="User Link" style="border-width:0" /></a></div></div></div></div><div class="node"><img src="json-to-jsonld.html_files/leaf.png" class="hideshow" alt="leaf" /><a id="FMID_470698109FM" /><div class="nodecontent" style="color:#000000;font-size:83%;"><a href="https://github.com/antoniogarrote/json-ld-macros">json ld macros</a> <a href="https://github.com/antoniogarrote/json-ld-macros"><img src="json-to-jsonld.html_files/ilink.png" alt="User Link" style="border-width:0" /></a></div></div><div class="node"><img src="json-to-jsonld.html_files/leaf.png" class="hideshow" alt="leaf" /><a id="FMID_415558595FM" /><div class="nodecontent" style="color:#000000;font-size:83%;"><a href="http://json-ld.org/playground/">json ld playground</a> <a href="http://json-ld.org/playground/"><img src="json-to-jsonld.html_files/ilink.png" alt="User Link" style="border-width:0" /></a></div></div></div></div><div class="node"><img src="json-to-jsonld.html_files/hide.png" class="hideshow" alt="hide" onClick="toggle(&quot;N67830&quot;)" id="imgN67830" /><img src="json-to-jsonld.html_files/icons/folder.svg" alt="folder" /> <a id="FMID_1100215200FM" /><div class="nodecontent" style="color:#000000;font-size:83%;">docs</div><div class="content" id="N67830"><div class="node"><img src="json-to-jsonld.html_files/leaf.png" class="hideshow" alt="leaf" /><a id="FMID_1264027332FM" /><div class="nodecontent" style="color:#000000;font-size:83%;"><a href="https://json-ld.org/spec/latest/json-ld/">JSON-LD 1.1</a> <a href="https://json-ld.org/spec/latest/json-ld/"><img src="json-to-jsonld.html_files/ilink.png" alt="User Link" style="border-width:0" /></a></div></div></div></div><div class="node"><img src="json-to-jsonld.html_files/hide.png" class="hideshow" alt="hide" onClick="toggle(&quot;N67909&quot;)" id="imgN67909" /><img src="json-to-jsonld.html_files/icons/hashtag.png" alt="hashtag" /> <a id="FMID_466759422FM" /><div class="nodecontent" style="color:#000000;font-size:83%;">tags</div><div class="content" id="N67909"><div class="node"><img src="json-to-jsonld.html_files/leaf.png" class="hideshow" alt="leaf" /><a id="FMID_1819539538FM" /><div class="nodecontent" style="color:#000000;font-size:83%;">jsonld</div></div></div></div><div class="node"><img src="json-to-jsonld.html_files/hide.png" class="hideshow" alt="hide" onClick="toggle(&quot;N67987&quot;)" id="imgN67987" /><a id="FMID_1203332323FM" /><div class="nodecontent" style="color:#000000;font-size:83%;">Comments</div><div class="content" id="N67987"><div class="node"><img src="json-to-jsonld.html_files/hide.png" class="hideshow" alt="hide" onClick="toggle(&quot;N68023&quot;)" id="imgN68023" /><a id="FMID_348210779FM" /><div class="nodecontent" style="color:#000000;font-size:83%;">Adrian Gschwend</div><div class="content" id="N68023"><div class="node"><img src="json-to-jsonld.html_files/leaf.png" class="hideshow" alt="leaf" /><a id="FMID_144966324FM" /><div class="nodecontent" style="color:#000000;font-size:83%;">provide context</div></div></div></div><div class="node"><img src="json-to-jsonld.html_files/hide.png" class="hideshow" alt="hide" onClick="toggle(&quot;N68095&quot;)" id="imgN68095" /><a id="FMID_1765687416FM" /><div class="nodecontent" style="color:#000000;font-size:83%;">James Anderson</div><div class="content" id="N68095"><div class="node"><img src="json-to-jsonld.html_files/leaf.png" class="hideshow" alt="leaf" /><a id="FMID_766501768FM" /><div class="nodecontent" style="color:#000000;font-size:83%;"><a href="https://stackoverflow.com/questions/27564369/json-to-json-ld">JSON to JSON-LD</a> <a href="https://stackoverflow.com/questions/27564369/json-to-json-ld"><img src="json-to-jsonld.html_files/ilink.png" alt="User Link" style="border-width:0" /></a></div></div><div class="node"><img src="json-to-jsonld.html_files/leaf.png" class="hideshow" alt="leaf" /><a id="FMID_1778237430FM" /><div class="nodecontent" style="color:#000000;font-size:83%;">
     mappings from field name to iri needs to be grounde
-  </div></div></div></div><div class="node"><img src="json-to-jsonld.html_files/hide.png" class="hideshow" alt="hide" onClick="toggle(&quot;N68179&quot;)" id="imgN68179" /><a id="FMID_1984802718FM" /><div class="nodecontent" style="color:#000000;font-size:83%;">David Booth</div><div class="content" id="N68179"><div class="node"><img src="json-to-jsonld.html_files/leaf.png" class="hideshow" alt="leaf" /><a id="FMID_847805870FM" /><div class="nodecontent" style="color:#000000;font-size:83%;">I have not seen one yet, but it's good idea.  In particular, the algorithm needs to recursively traverse the JSON tree and keep track of nesting to generate an @context that will keep nested properties of the same name distinct</div></div></div></div><div class="node"><img src="json-to-jsonld.html_files/hide.png" class="hideshow" alt="hide" onClick="toggle(&quot;N68251&quot;)" id="imgN68251" /><a id="FMID_1744736052FM" /><div class="nodecontent" style="color:#000000;font-size:83%;">Ivan Herman</div><div class="content" id="N68251"><div class="node"><img src="json-to-jsonld.html_files/leaf.png" class="hideshow" alt="leaf" /><a id="FMID_1977856301FM" /><div class="nodecontent" style="color:#000000;font-size:83%;"><a href="https://www.w3.org/TR/json-ld11/#interpreting-json-as-json-ld">spec: interpreting JSON as JSON-LD</a> <a href="https://www.w3.org/TR/json-ld11/#interpreting-json-as-json-ld"><img src="json-to-jsonld.html_files/ilink.png" alt="User Link" style="border-width:0" /></a></div></div><div class="node"><img src="json-to-jsonld.html_files/leaf.png" class="hideshow" alt="leaf" /><a id="FMID_1496037961FM" /><div class="nodecontent" style="color:#000000;font-size:83%;"><a href="https://github.com/w3c/EasierRDF/issues/29#issuecomment-606147345">JSON-LD 1.1 scoped context</a> <a href="https://github.com/w3c/EasierRDF/issues/29#issuecomment-606147345"><img src="json-to-jsonld.html_files/ilink.png" alt="User Link" style="border-width:0" /></a></div></div></div></div></div></div></div></div>
+  </div></div></div></div><div class="node"><img src="json-to-jsonld.html_files/hide.png" class="hideshow" alt="hide" onClick="toggle(&quot;N68216&quot;)" id="imgN68216" /><a id="FMID_1984802718FM" /><div class="nodecontent" style="color:#000000;font-size:83%;">David Booth</div><div class="content" id="N68216"><div class="node"><img src="json-to-jsonld.html_files/leaf.png" class="hideshow" alt="leaf" /><a id="FMID_847805870FM" /><div class="nodecontent" style="color:#000000;font-size:83%;">I have not seen one yet, but it's good idea.  In particular, the algorithm needs to recursively traverse the JSON tree and keep track of nesting to generate an @context that will keep nested properties of the same name distinct</div></div></div></div><div class="node"><img src="json-to-jsonld.html_files/hide.png" class="hideshow" alt="hide" onClick="toggle(&quot;N68288&quot;)" id="imgN68288" /><a id="FMID_1744736052FM" /><div class="nodecontent" style="color:#000000;font-size:83%;">Ivan Herman</div><div class="content" id="N68288"><div class="node"><img src="json-to-jsonld.html_files/leaf.png" class="hideshow" alt="leaf" /><a id="FMID_1977856301FM" /><div class="nodecontent" style="color:#000000;font-size:83%;"><a href="https://www.w3.org/TR/json-ld11/#interpreting-json-as-json-ld">spec: interpreting JSON as JSON-LD</a> <a href="https://www.w3.org/TR/json-ld11/#interpreting-json-as-json-ld"><img src="json-to-jsonld.html_files/ilink.png" alt="User Link" style="border-width:0" /></a></div></div><div class="node"><img src="json-to-jsonld.html_files/leaf.png" class="hideshow" alt="leaf" /><a id="FMID_1496037961FM" /><div class="nodecontent" style="color:#000000;font-size:83%;"><a href="https://github.com/w3c/EasierRDF/issues/29#issuecomment-606147345">JSON-LD 1.1 scoped context</a> <a href="https://github.com/w3c/EasierRDF/issues/29#issuecomment-606147345"><img src="json-to-jsonld.html_files/ilink.png" alt="User Link" style="border-width:0" /></a></div></div></div></div></div></div></div></div>
 </body></html>

diff --git a/2020/04/12/json-to-jsonld.ppt.html b/2020/04/12/json-to-jsonld.ppt.html
@@ -167,6 +167,9 @@
                         <li>
                             <a href="https://melvincarvalho.com/issues/2020/04/12/json-to-jsonld.json" class="link external">JSON</a>
                         </li>
+                        <li>
+                            <a href="https://melvincarvalho.com/issues/2020/04/12/json-to-jsonld.html_files/image.png" class="link external">png</a>
+                        </li>
                     </ul>
                 </section>
                 <!--new subsection-->

diff --git a/2020/04/12/json-to-jsonld.mm b/2020/04/12/json-to-jsonld.mm
@@ -133,6 +133,7 @@
 <node TEXT="html" ID="ID_428900558" CREATED="1586696437885" MODIFIED="1586696557376" LINK="https://melvincarvalho.com/issues/2020/04/12/json-to-jsonld.html"/>
 <node TEXT="JSON-LD" ID="ID_1787735517" CREATED="1586696450485" MODIFIED="1586696566531" LINK="https://melvincarvalho.com/issues/2020/04/12/json-to-jsonld.jsonld"/>
 <node TEXT="JSON" ID="ID_1736431665" CREATED="1586696447230" MODIFIED="1586696575655" LINK="https://melvincarvalho.com/issues/2020/04/12/json-to-jsonld.json"/>
+<node TEXT="png" ID="ID_1934992190" CREATED="1586696714143" MODIFIED="1586696719175" LINK="https://melvincarvalho.com/issues/2020/04/12/json-to-jsonld.html_files/image.png"/>
 </node>
 <node TEXT="links" POSITION="left" ID="ID_808607355" CREATED="1570968728188" MODIFIED="1570968728190">
 <icon BUILTIN="attach"/>
